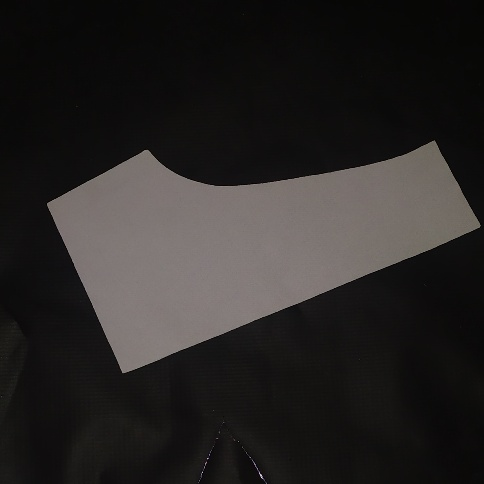
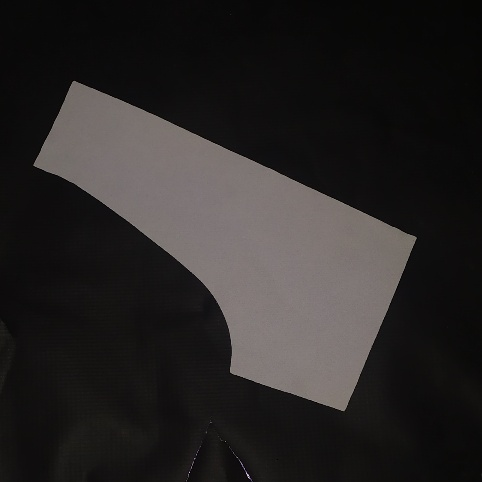
version_6 - 8.5.2023

Changed region(s): [[0.0622, 0.1556, 0.9959, 0.8714], [0.4979, 0.9336, 0.5602, 0.9959]]

diff --git a/Output tagging positions.py b/Output tagging positions.py
@@ -5,7 +5,7 @@ import math
 
 fabric_name = "home_shape"
 saved_image_path = f"./saving_information/{fabric_name}/fabric_image.jpg"
-new_image_path = "A:/Internship MAS/23.04.2023/Fabric_Images/IMG_20230503_204753.jpg"
+new_image_path = "A:/Internship MAS/23.04.2023/Fabric_Images/IMG_20230503_204724.jpg"
 white_count_list = list()
 
 
@@ -124,71 +124,29 @@ def gcode_making(rot_xy, midpoint, image):
     return image, g_codes
 
 
-def adjust_coordinates(new, old, angle, org_coordinates, rot_coordinates):
-
-    def get_quadrant(x, y):
-        if x > 0 and y > 0:
-            return 1
-        elif x < 0 and y > 0:
-            return 2
-        elif x < 0 and y < 0:
-            return 3
-        elif x > 0 and y < 0:
-            return 4
-        else:
-            return 0
-
-    center_point = list(map(lambda x: x // 2, reversed(new.shape[:2])))[0]
-    adjust_rot_coordinates = [[x, y] for x, y in rot_coordinates]  # save a copy for future use
+def adjust_coordinates(new, old, angle, org_coordinates):
+    new = rotate_image(new, angle)
     contour_old = cv2.findContours(old, cv2.RETR_EXTERNAL, cv2.CHAIN_APPROX_SIMPLE)[0][0]
     contour_new = cv2.findContours(new, cv2.RETR_EXTERNAL, cv2.CHAIN_APPROX_SIMPLE)[0][0]
 
-    old_near_dists, new_near_dists = [], []
-    difference_each_point = []
-    counter = 0
-    for (x_old, y_old), (x_new, y_new) in zip(org_coordinates, rot_coordinates):
-        point_old = int((int(x_old) * 1) + center_point), int((int(y_old) * -1) + center_point)
-        point_new = int((int(x_new) * 1) + center_point), int((int(y_new) * -1) + center_point)
+    rect_new = cv2.minAreaRect(contour_new)
+    rect_old = cv2.minAreaRect(contour_old)
+    box_new = np.intp(cv2.boxPoints(rect_new))
+    box_old = np.intp(cv2.boxPoints(rect_old))
 
-        cv2.circle(old, point_old, 2, (0, 0, 0), -1)
-        cv2.circle(new, point_new, 2, (0, 0, 0), -1)
+    cv2.drawContours(new, [box_new], 0, (255, 255, 255), 2)
+    cv2.drawContours(old, [box_old], 0, (255, 255, 255), 2)
 
-        nearest_point_old = cv2.pointPolygonTest(contour_old, point_old, True)
-        nearest_point_new = cv2.pointPolygonTest(contour_new, point_new, True)
+    print(rect_new, "\n", rect_old)
+    cv2.imshow('Image with rectangle', new)
+    cv2.imshow('Image with rectangle_1', old)
 
-        difference_each_point.append(nearest_point_new - nearest_point_old)
-        old_near_dists.append(nearest_point_old)
-        new_near_dists.append(nearest_point_new)
-        quad = get_quadrant(x_new, y_new)
-
-        if counter != 5:
-            if quad == 1:
-                adjust_rot_coordinates[counter][0] += (nearest_point_new - nearest_point_old)
-                adjust_rot_coordinates[counter][1] += (nearest_point_new - nearest_point_old)
-            elif quad == 2:
-                adjust_rot_coordinates[counter][0] += (nearest_point_new - nearest_point_old)
-                adjust_rot_coordinates[counter][1] += (nearest_point_new - nearest_point_old)
-            elif quad == 3:
-                adjust_rot_coordinates[counter][0] += (nearest_point_new - nearest_point_old)
-                adjust_rot_coordinates[counter][1] += (nearest_point_new - nearest_point_old)
-            elif quad == 4:
-                adjust_rot_coordinates[counter][0] -= (nearest_point_new - nearest_point_old)
-                adjust_rot_coordinates[counter][1] -= (nearest_point_new - nearest_point_old)
-            else:
-                adjust_rot_coordinates[counter][0] += 0
-                adjust_rot_coordinates[counter][1] += 0
-            print(quad)
-        counter += 1
-
-    print("dif - ", difference_each_point)
-
-    cv2.imshow("binary", old)
-    cv2.imshow("binary_2", new)
+    adjust_rot_coordinates = rotate_coordinate_list(org_coordinates, -angle + ((rect_new[2] - rect_old[2]) * 8))
+    print(rect_new[2] - rect_old[2])
 
     return adjust_rot_coordinates
 
-
-# -------------------------------------------------------------------------------------
+# ---------------------------------------------------------------------------------------------------------------------
 
 
 saved_image = cv2.imread(saved_image_path)
@@ -216,11 +174,10 @@ angle_of_the_image, white_px_count = find_angle_of_new_image(cropped_new_image, 
 xy_coordinates = read_coordinates(f"./saving_information/{fabric_name}/positions.txt")
 rotated_coordinates = rotate_coordinate_list(xy_coordinates, -angle_of_the_image)
 print(rotated_coordinates)
-new_rot_coordinates = adjust_coordinates(cropped_new_image, cropped_old_image, angle_of_the_image, xy_coordinates,
-                                         rotated_coordinates)
+new_rot_coordinates = adjust_coordinates(cropped_new_image, cropped_old_image, angle_of_the_image, xy_coordinates)
 print(new_rot_coordinates)
 
-#rotated_coordinates = new_rot_coordinates
+rotated_coordinates = new_rot_coordinates
 
 final_image, sending_codes = gcode_making(rotated_coordinates, mid_point, normal_image)
 

diff --git a/Input positions.py b/Input positions.py
@@ -1,7 +1,7 @@
 import os
 import cv2
 
-read_image_path = "A:/Internship MAS/23.04.2023/Fabric_Images/IMG_20230503_204704.jpg"
+read_image_path = "A:/Internship MAS/23.04.2023/Fabric_Images/IMG_20230503_204715.jpg"
 fabric_name = "home_shape"
 path_to_save = "./saving_information/"
 counter = 0
